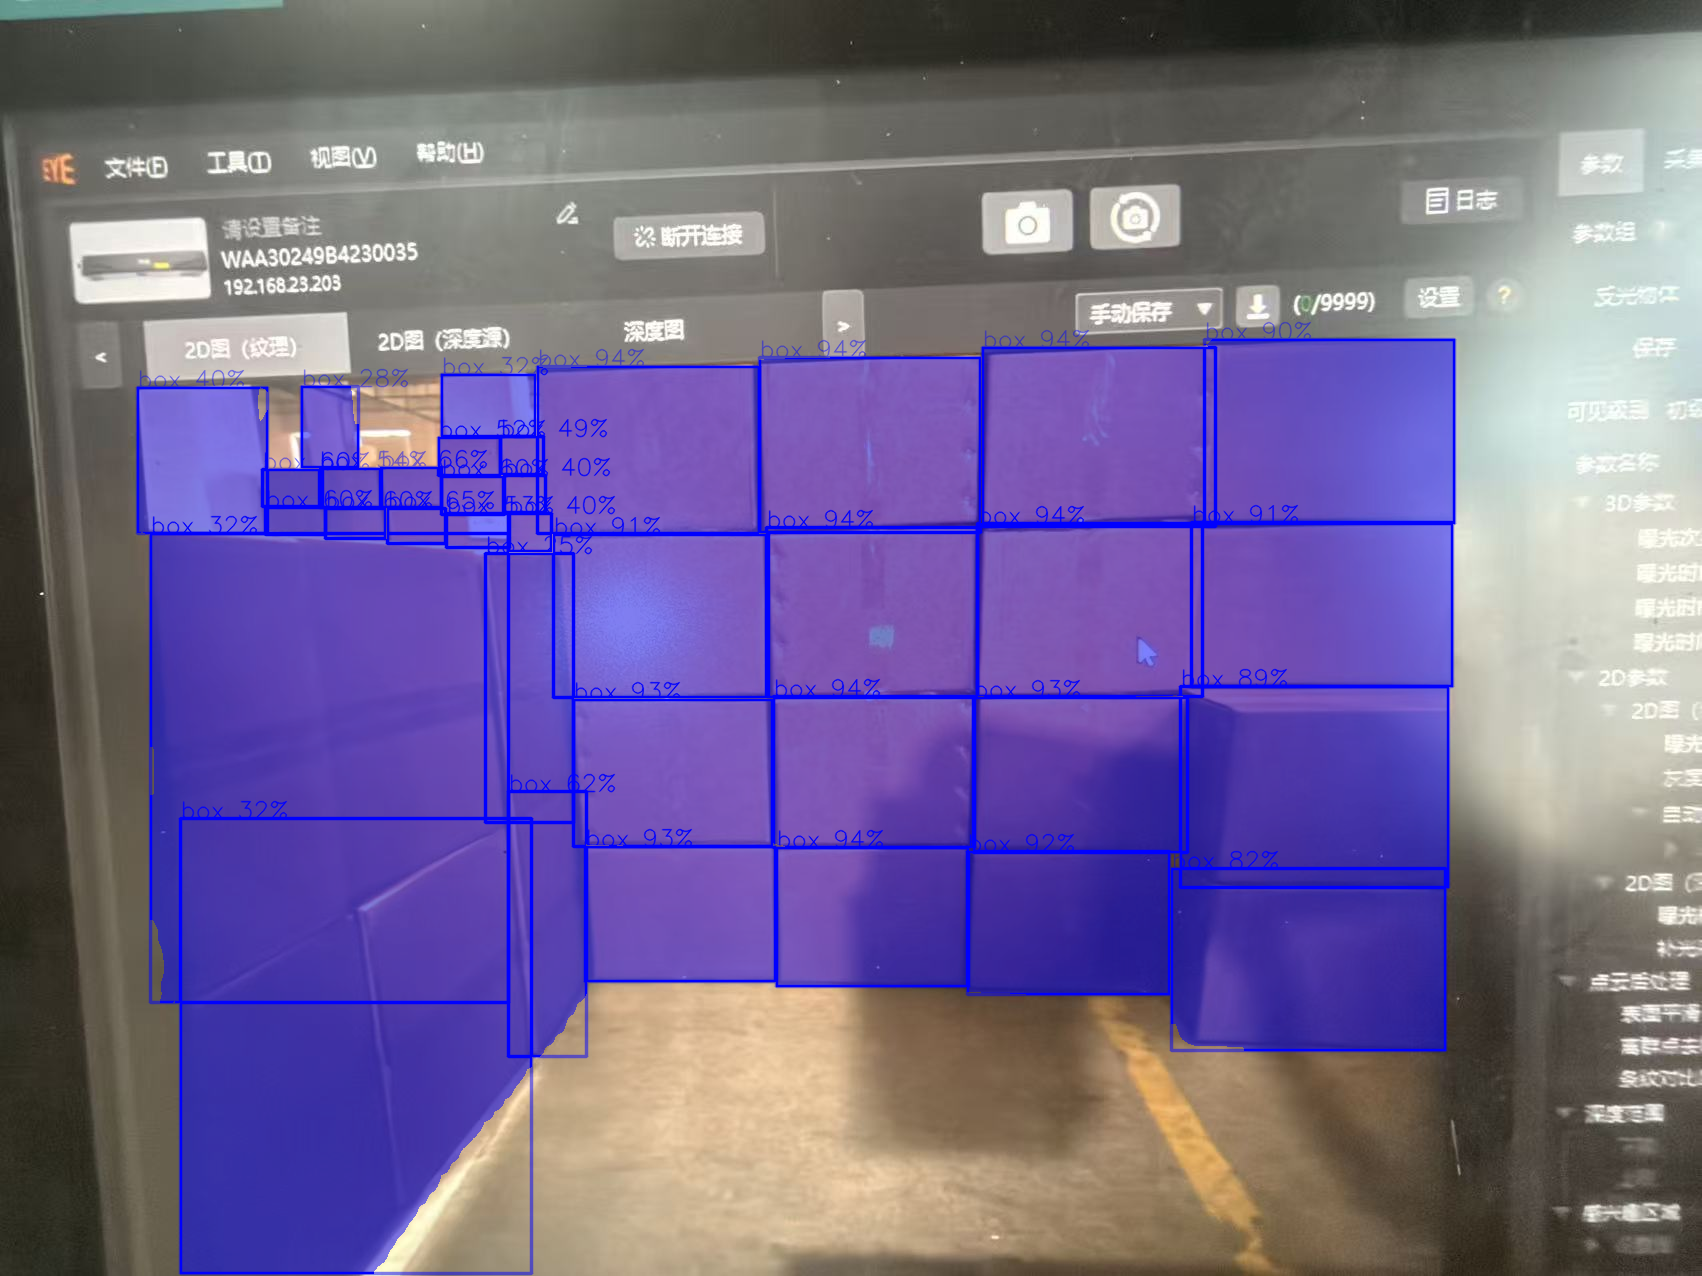
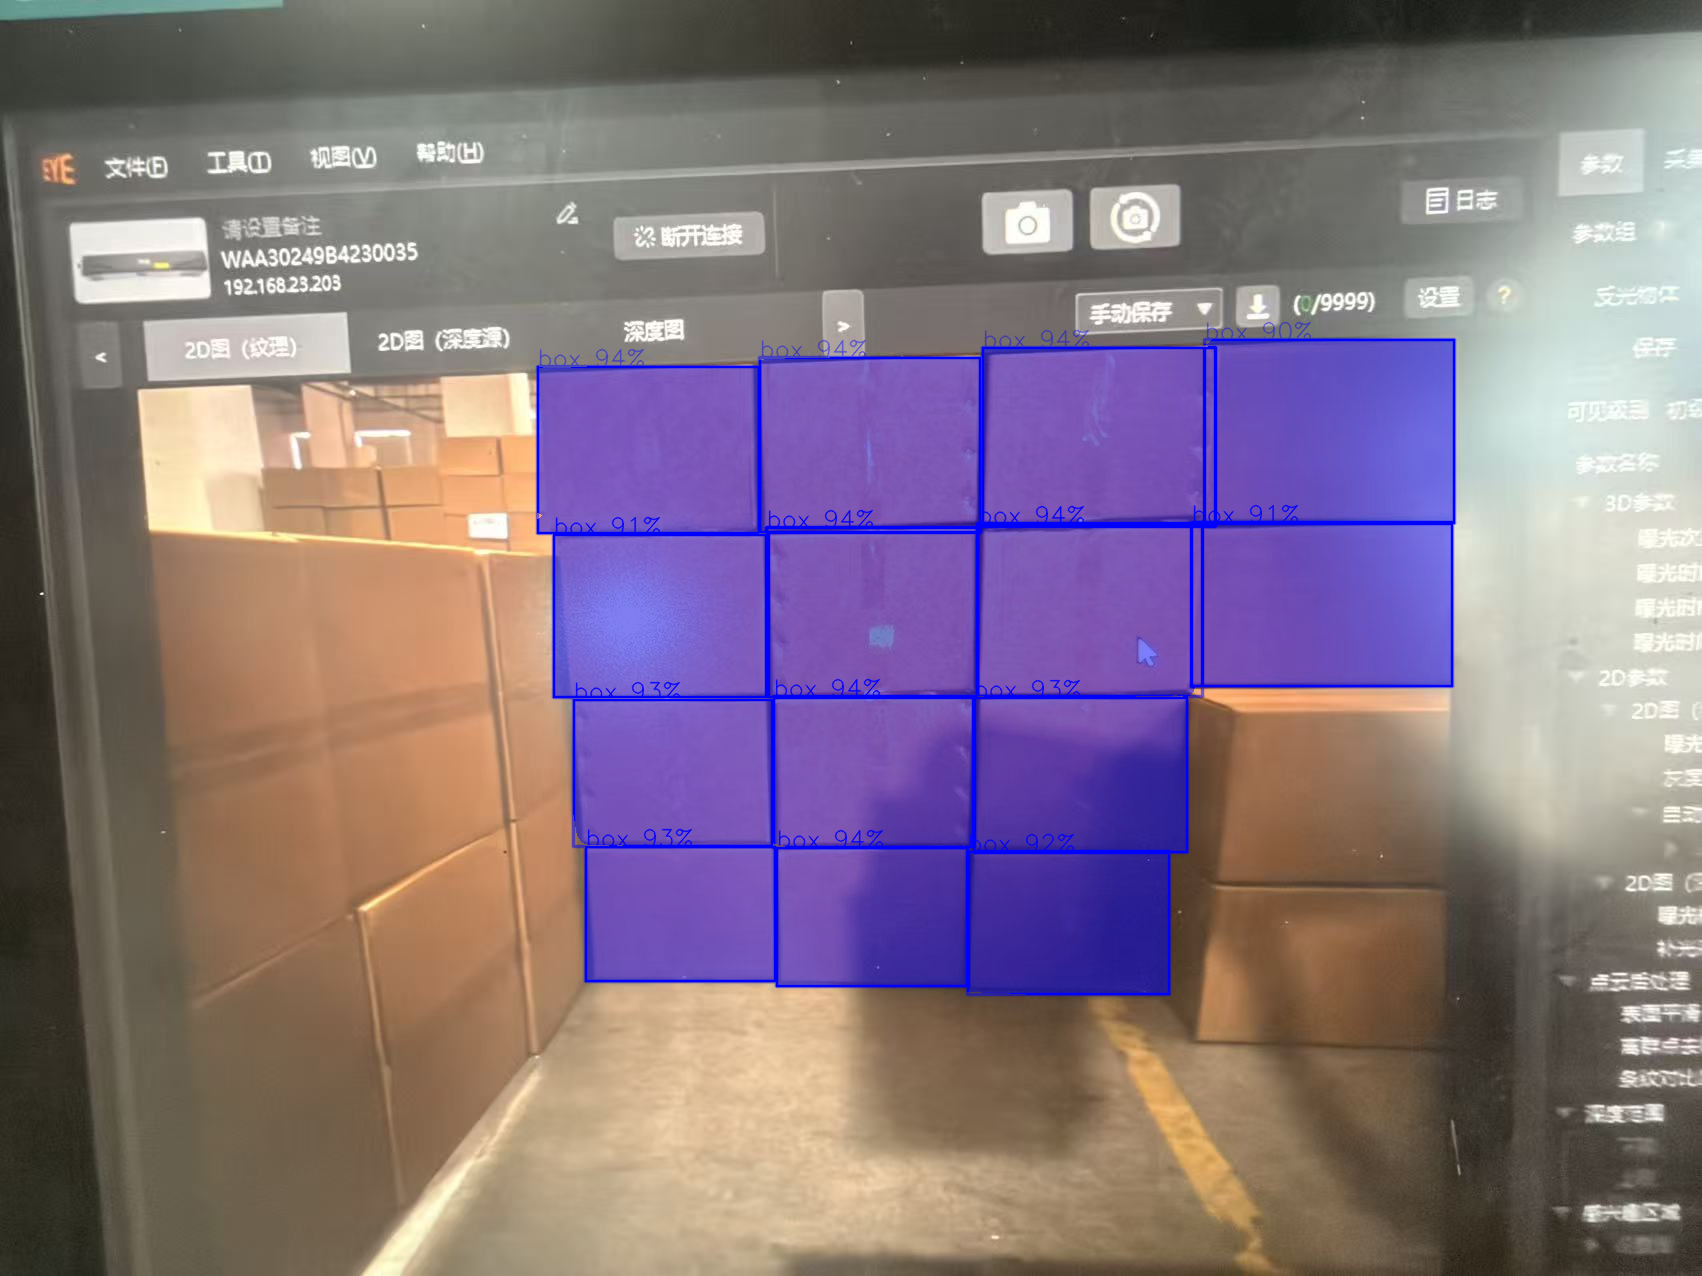
修复python调用DL SDK修改配置参数识别

Changed region(s): [[0.0623, 0.2751, 0.3737, 1.0], [0.6851, 0.5196, 0.8719, 0.8252]]

diff --git a/scripts/DL_SDK/dlseg_sdk.py b/scripts/DL_SDK/dlseg_sdk.py
@@ -4,7 +4,7 @@ import ctypes
 import numpy as np
 
 from ctypes import (
-    Structure, c_void_p, c_int, c_float, c_ubyte, c_char_p,
+    Structure, c_void_p, c_int, c_float, c_ubyte, c_char_p, c_char,
     POINTER, CDLL, create_string_buffer, byref
 )
 
@@ -16,11 +16,13 @@ class DlSegBox(Structure):
         ("x", c_int),
         ("y", c_int),
         ("width", c_int),
-        ("height", c_int)
+        ("height", c_int),
+        ("class_name", c_char * 64)  # 对应 C 语言中的 char class_name[64]
     ]
 
     def __repr__(self):
-        return f"DlSegBox(id={self.id}, conf={self.confidence:.3f}, x={self.x}, y={self.y}, w={self.width}, h={self.height})"
+        name_str = self.class_name.decode('utf-8', errors='ignore').rstrip('\x00')
+        return f"DlSegBox(name={name_str}, id={self.id}, conf={self.confidence:.3f}, x={self.x}, y={self.y}, w={self.width}, h={self.height})"
 
 
 class DlSegConfig(Structure):
@@ -31,7 +33,7 @@ class DlSegConfig(Structure):
         ("use_cuda", c_int),
         ("cuda_id", c_int),
         ("warm_up", c_int),
-        # 与 C++ 结构体对齐的配置字段
+        # 扩展配置字段
         ("net_width", c_int),
         ("net_height", c_int),
         ("class_threshold", c_float),
@@ -43,7 +45,6 @@ class DlSegConfig(Structure):
 
 class DlSegSDK:
     """DlSeg C-API Python 封装类库"""
-
     def __init__(self, lib_path: str = None):
         curr_dir = os.path.dirname(os.path.abspath(__file__))
 
@@ -157,10 +158,10 @@ class DlSegSDK:
             warm_up=warm_up,
             net_width=net_width,
             net_height=net_height,
-            class_threshold=class_threshold,
-            nms_threshold=nms_threshold,
-            mask_threshold=mask_threshold,
-            batch_size=batch_size
+            class_threshold=float(class_threshold),
+            nms_threshold=float(nms_threshold),
+            mask_threshold=float(mask_threshold),
+            batch_size=int(batch_size)
         )
         return self._dll.DlSeg_Initialize(self._handle, byref(config))
 

diff --git a/src/CubeBraidSDK/DL_SDK/dlseg_sdk_demo.cpp b/src/CubeBraidSDK/DL_SDK/dlseg_sdk_demo.cpp
@@ -50,8 +50,8 @@ int main()
     config.warm_up = true;
 
     // 根据模型实际训练情况调整
-    config.net_width = 320;        // 如果模型是320x320训练的，请设为320（默认 640）
-    config.net_height = 320;       // 同上
+    config.net_width = 640;        // 如果模型是320x320训练的，请设为320（默认 640）
+    config.net_height = 640;       // 同上
     config.class_threshold = 0.25f; // 适当调低置信度阈值（默认 0.25f）防漏检
     config.nms_threshold = 0.45f;
     config.mask_threshold = 0.5f;
